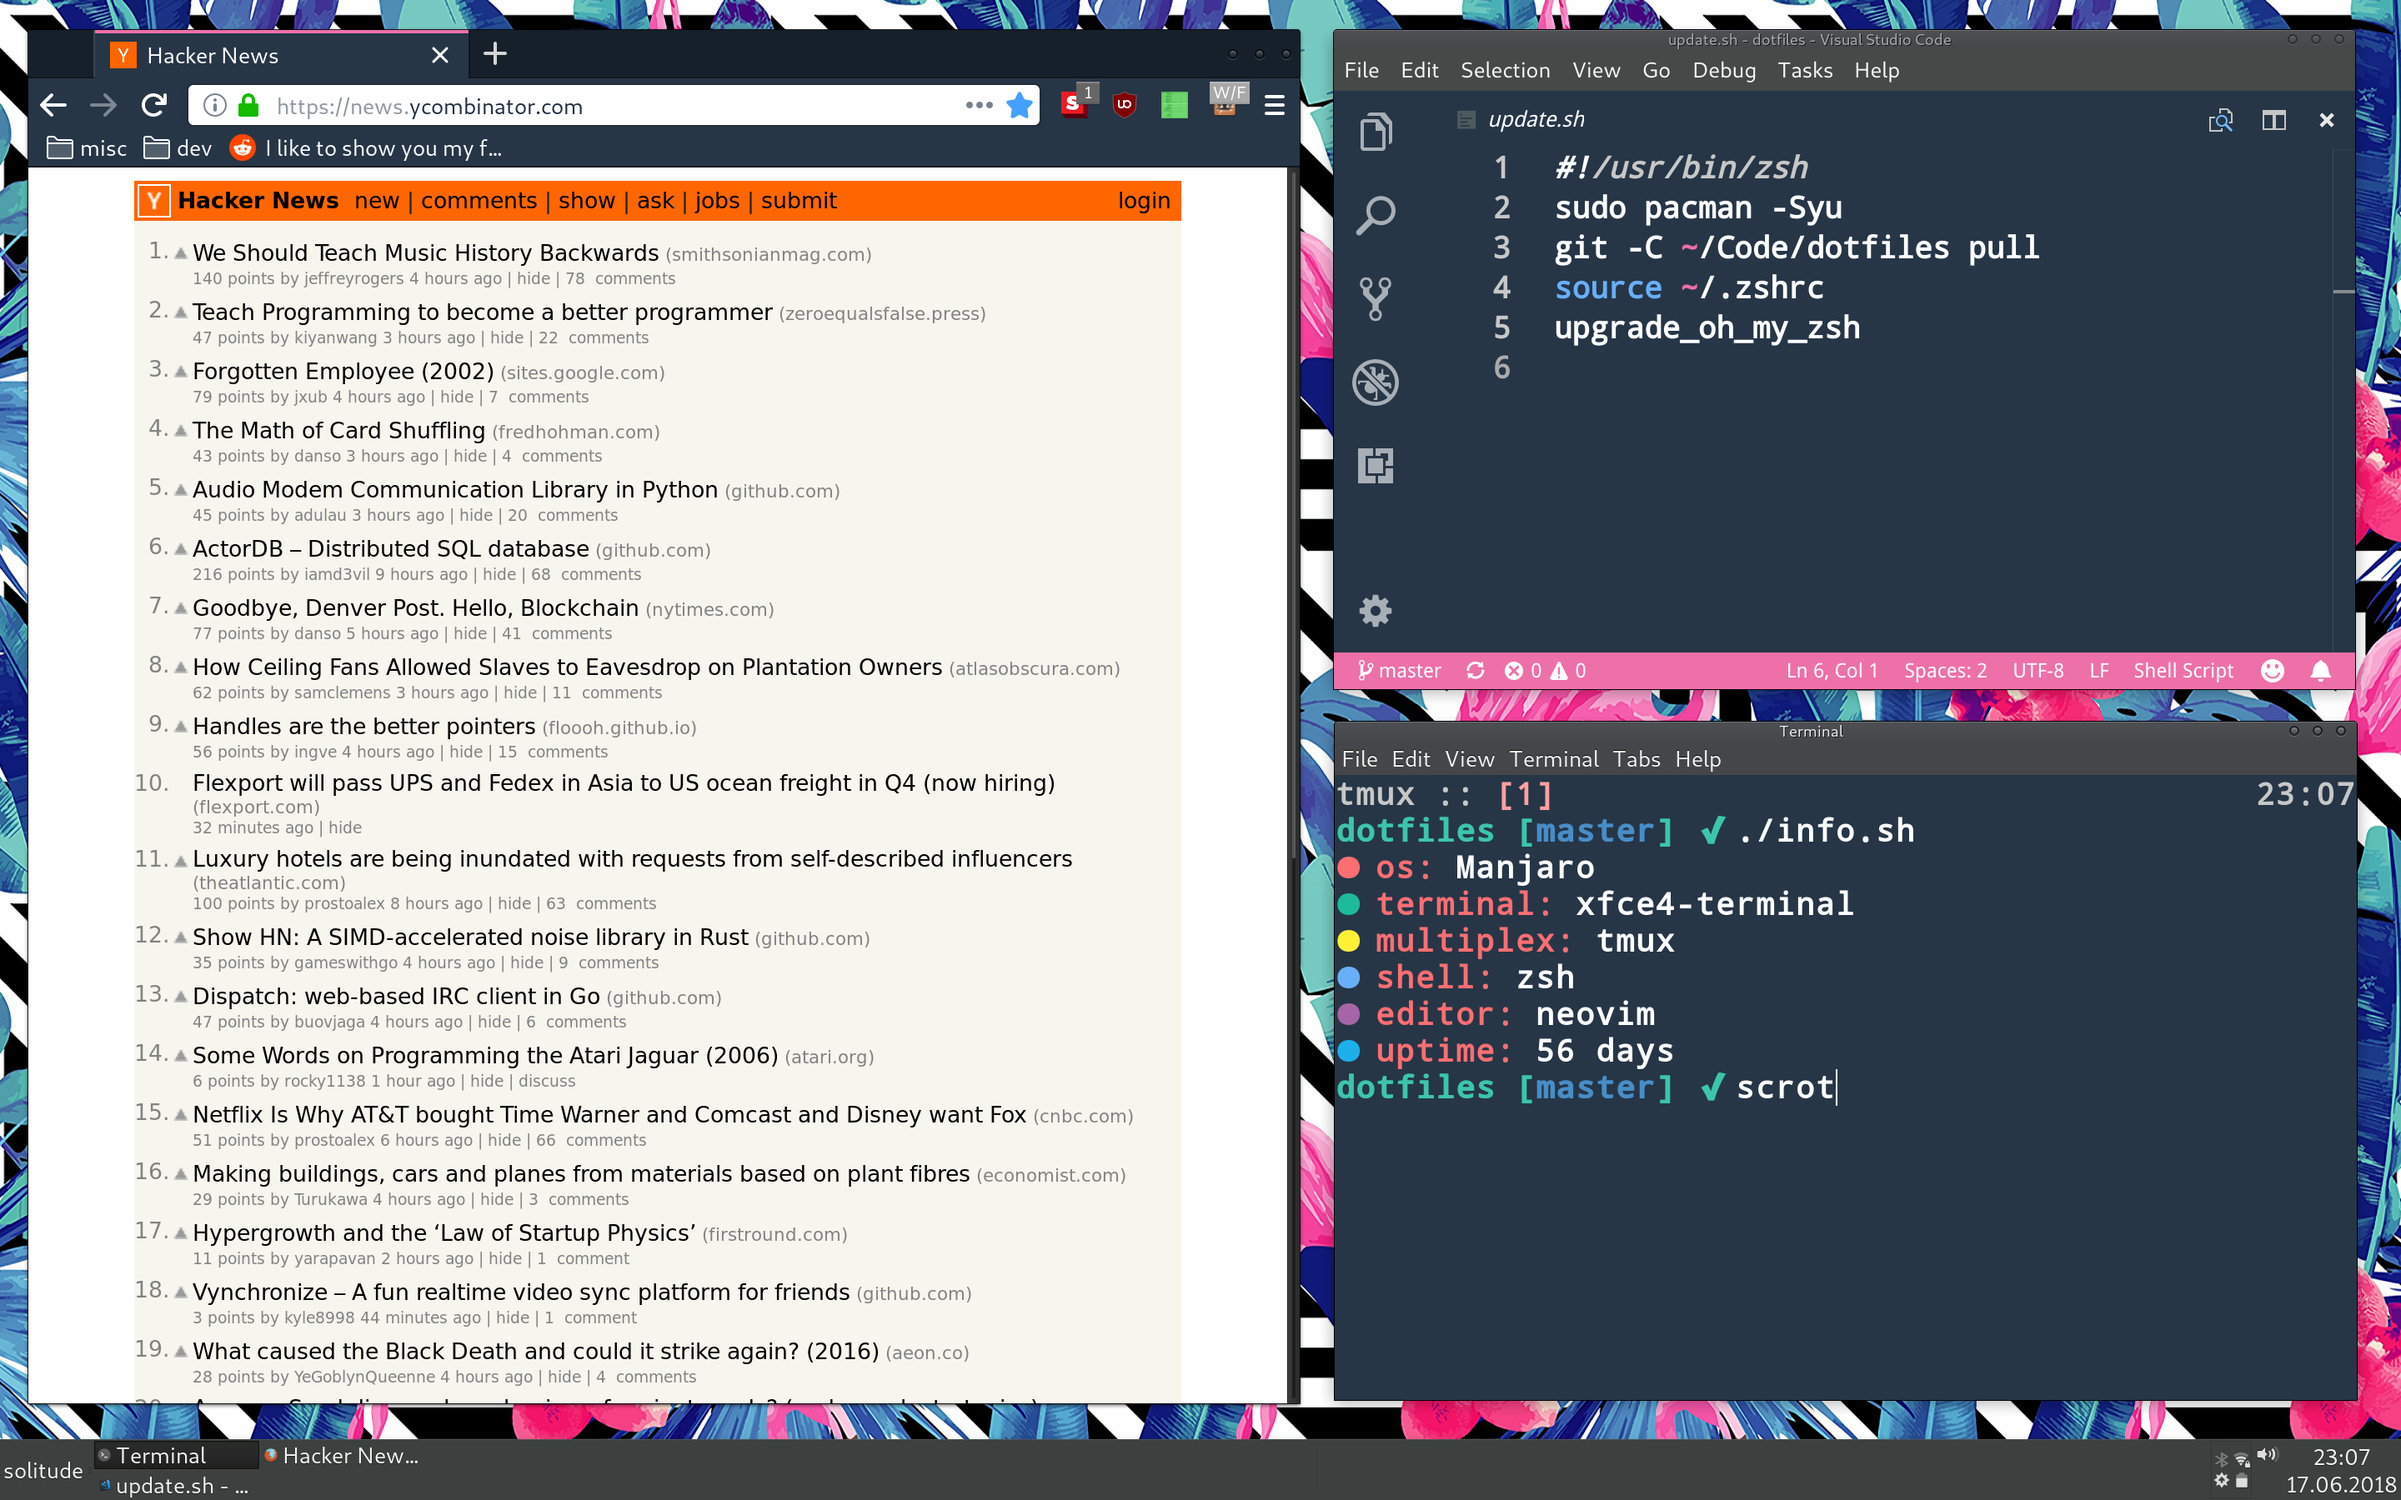
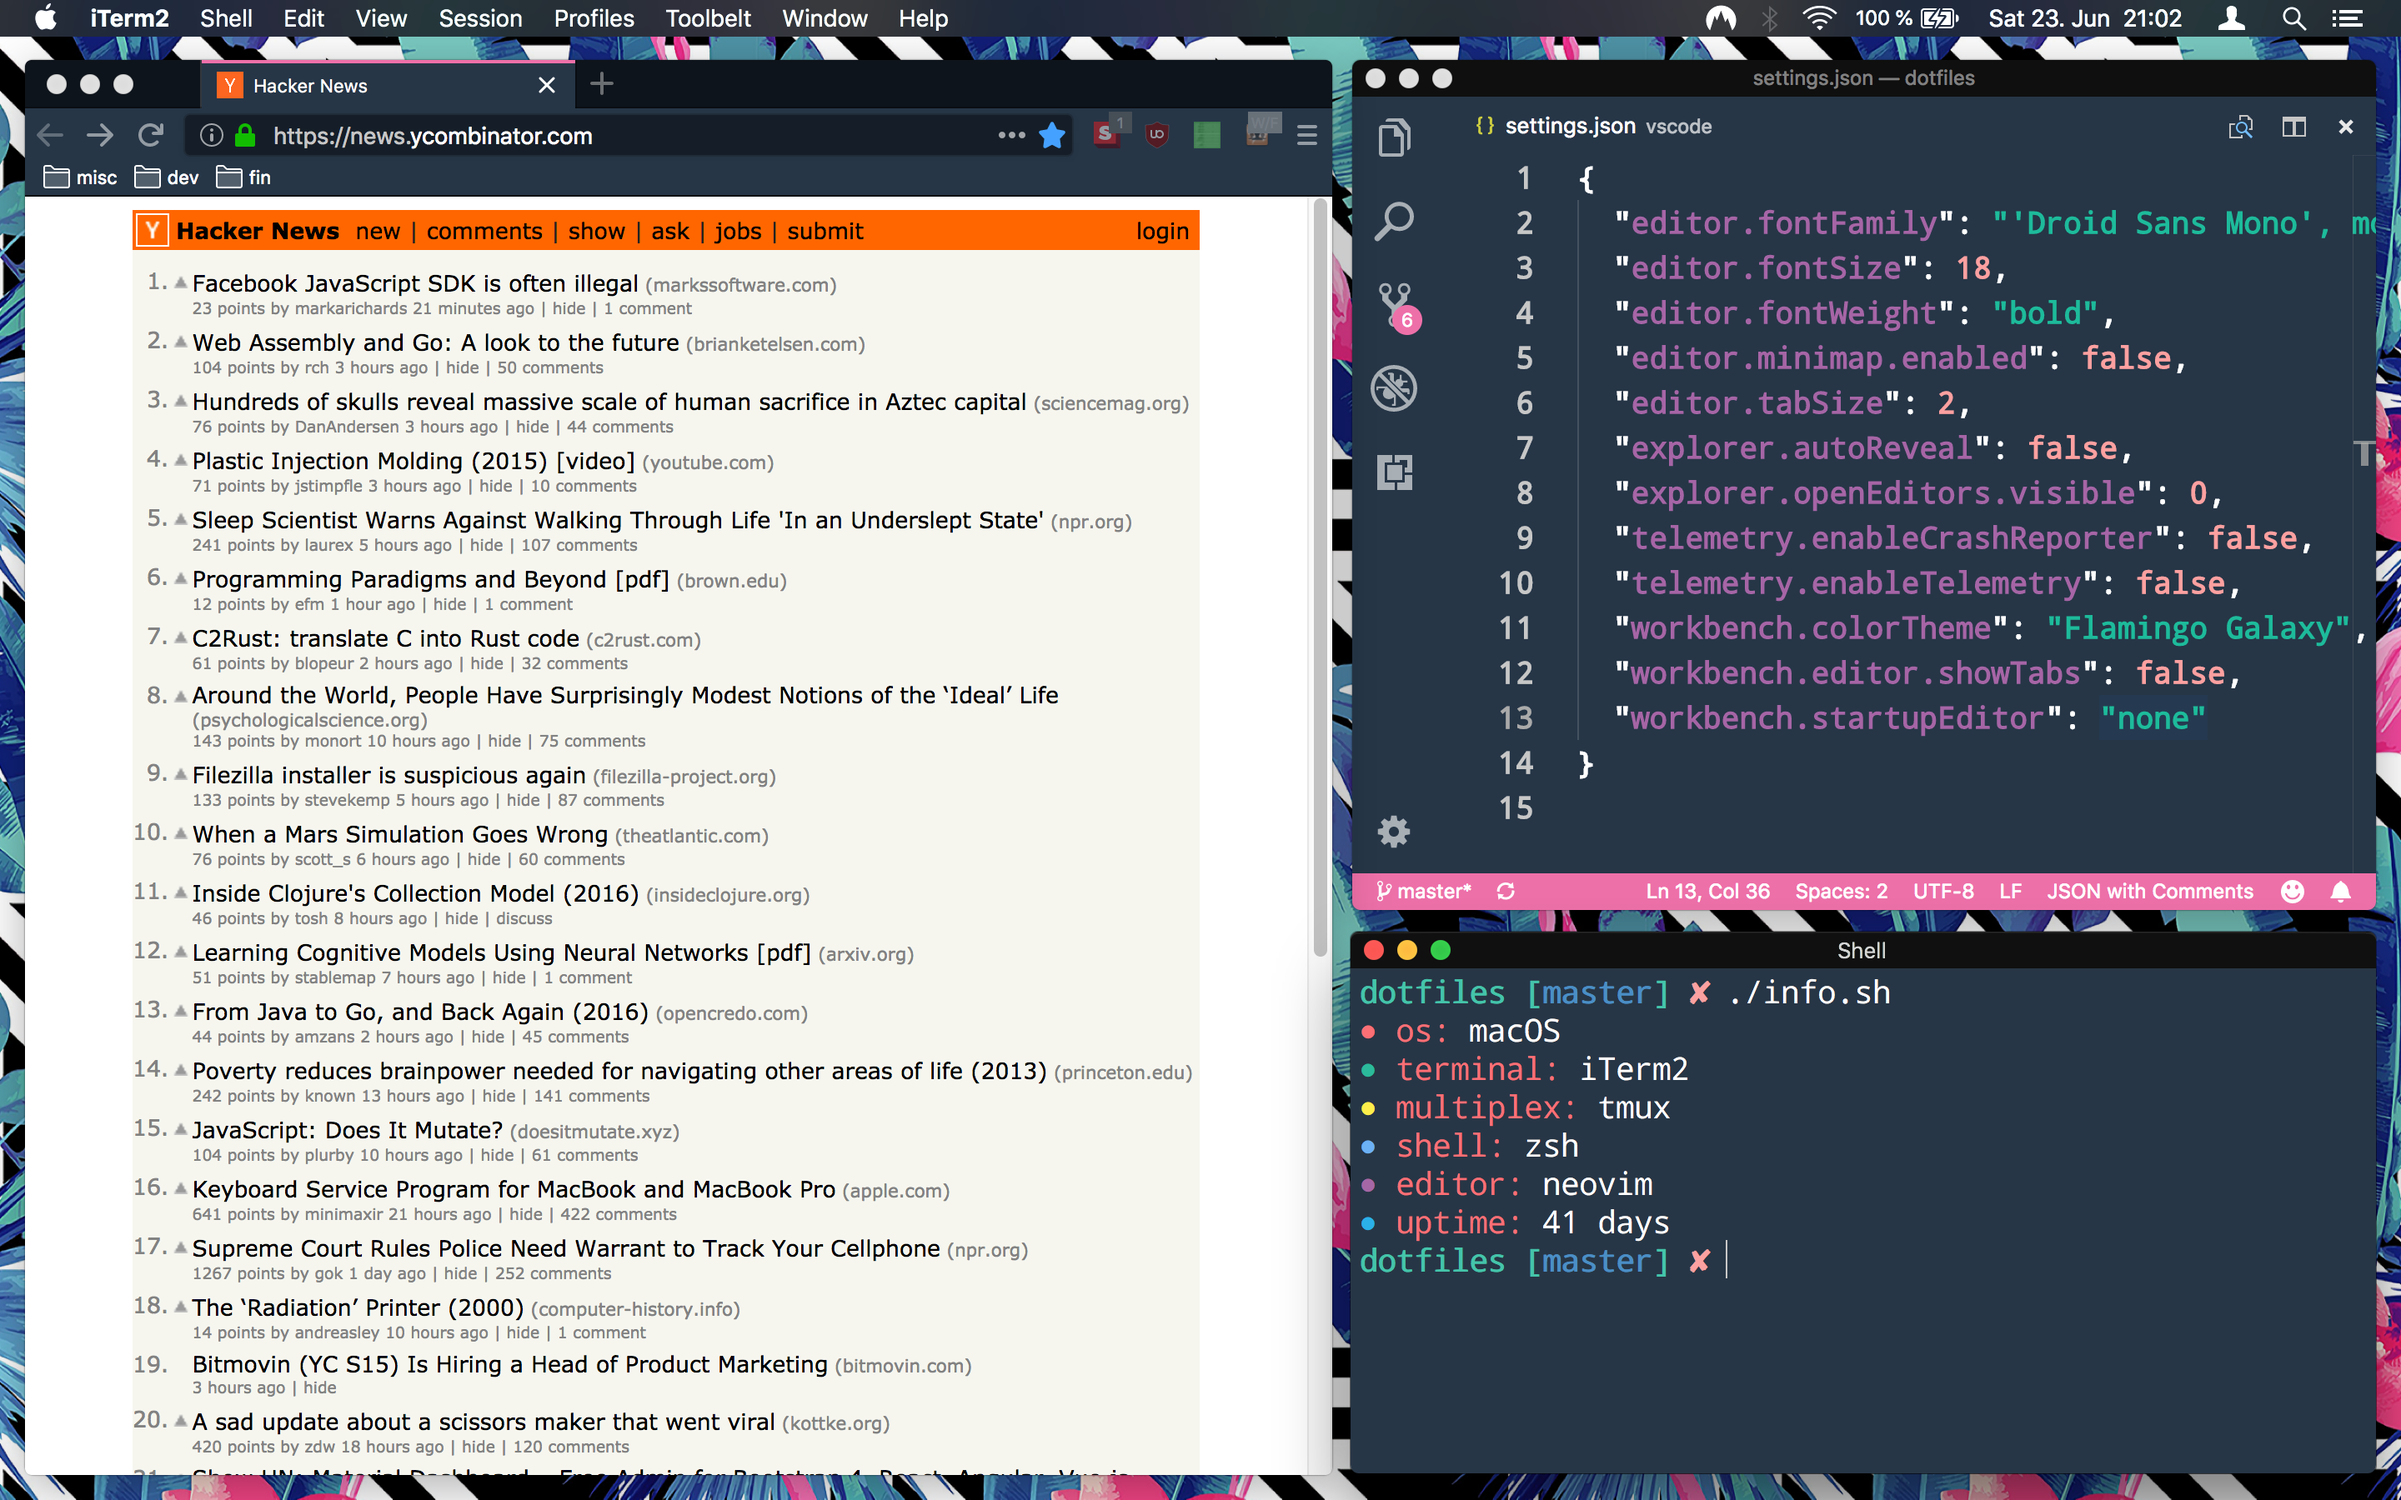
Migrate to macOS

diff --git a/README.md b/README.md
@@ -2,31 +2,45 @@
 
 Personal dotfiles, scripts and guides
 
-![Screenshot](https://raw.githubusercontent.com/oleblaesing/dotfiles/master/screenshot.png "Screenshot")
+![Screenshot](screenshot.png "Screenshot")
 
 ## Installation
 
-After going through system and Finder settings
+System settings
+Finder settings
+Apply backup files
 
 ```sh
-sudo vi /etc/resolv.conf
+sudo dscl . delete /Users/$USER jpegphoto
+sudo defaults write /Library/Preferences/SystemConfiguration/com.apple.captive.control Active -bool false
+sudo networksetup -setdnsservers "Wi-Fi" 1.1.1.1
 curl "https://raw.githubusercontent.com/StevenBlack/hosts/master/hosts" | sudo tee -a /etc/hosts
 
-sudo pacman -Syu
-sudo pacman -S base-devel yaourt dmenu zsh tmux neovim git keepassxc openvpn
-sudo pacman -S firefox thunderbird transmission-gtk docker virtualbox wireshark-qt
-yaourt spotify google-chrome
+xcode-select --install
 
-# Install tor-browser
-# Shortcuts for dmenu_run
+/usr/bin/ruby -e "$(curl -fsSL https://raw.githubusercontent.com/Homebrew/install/master/install)"
+brew analytics off
+brew update && brew upgrade
+brew install openssl
+brew install openssh --with-brewed-openssl
+brew install curl zsh tmux neovim git gpg npm
+brew cask install iterm2 keepassxc firefox thunderbird nordvpn spotify
+brew cask install docker google-chrome torbrowser virtualbox
+brew cask install libreoffice wireshark
+npm i --global vsce
 
-chsh -s /usr/bin/zsh
+chsh -s /usr/local/bin/zsh
 zsh
 sh -c "$(curl -fsSL https://raw.githubusercontent.com/robbyrussell/oh-my-zsh/master/tools/install.sh)"
+
+ln -s ~/Keys/ssh ~/.ssh
+ssh-add ~/.ssh/ole.blaesing@web.de
+vsce publish
 
 mkdir ~/Code
 ~/Code
 git clone https://github.com/oleblaesing/dotfiles.git
+git clone https://github.com/oleblaesing/flamingo-galaxy.git
 
 ln -sf ~/Code/dotfiles/zsh/.zshrc ~/.zshrc
 ln -s ~/Code/dotfiles/zsh/themes/macos.zsh-theme ~/.oh-my-zsh/themes/macos.zsh-theme
@@ -35,8 +49,8 @@ ln -s ~/Code/dotfiles/curl/.curlrc ~/.curlrc
 ln -s ~/Code/dotfiles/git/.gitconfig ~/.gitconfig
 mkdir -p ~/.config/nvim
 ln -s ~/Code/dotfiles/nvim/init.vim ~/.config/nvim/init.vim
-ln -sf ~/Code/dotfiles/vscode/settings.json ~/.config/Code/User/settings.json
-ln -sf ~/Code/dotfiles/vscode/keybindings.json ~/.config/Code/User/keybindings.json
+ln -sf ~/Code/dotfiles/vscode/settings.json ~/Library/Application\ Support/Code/User/settings.json
+ln -sf ~/Code/dotfiles/vscode/keybindings.json ~/Library/Application\ Support/Code/User/keybindings.json
 
 source ~/.zshrc
 
